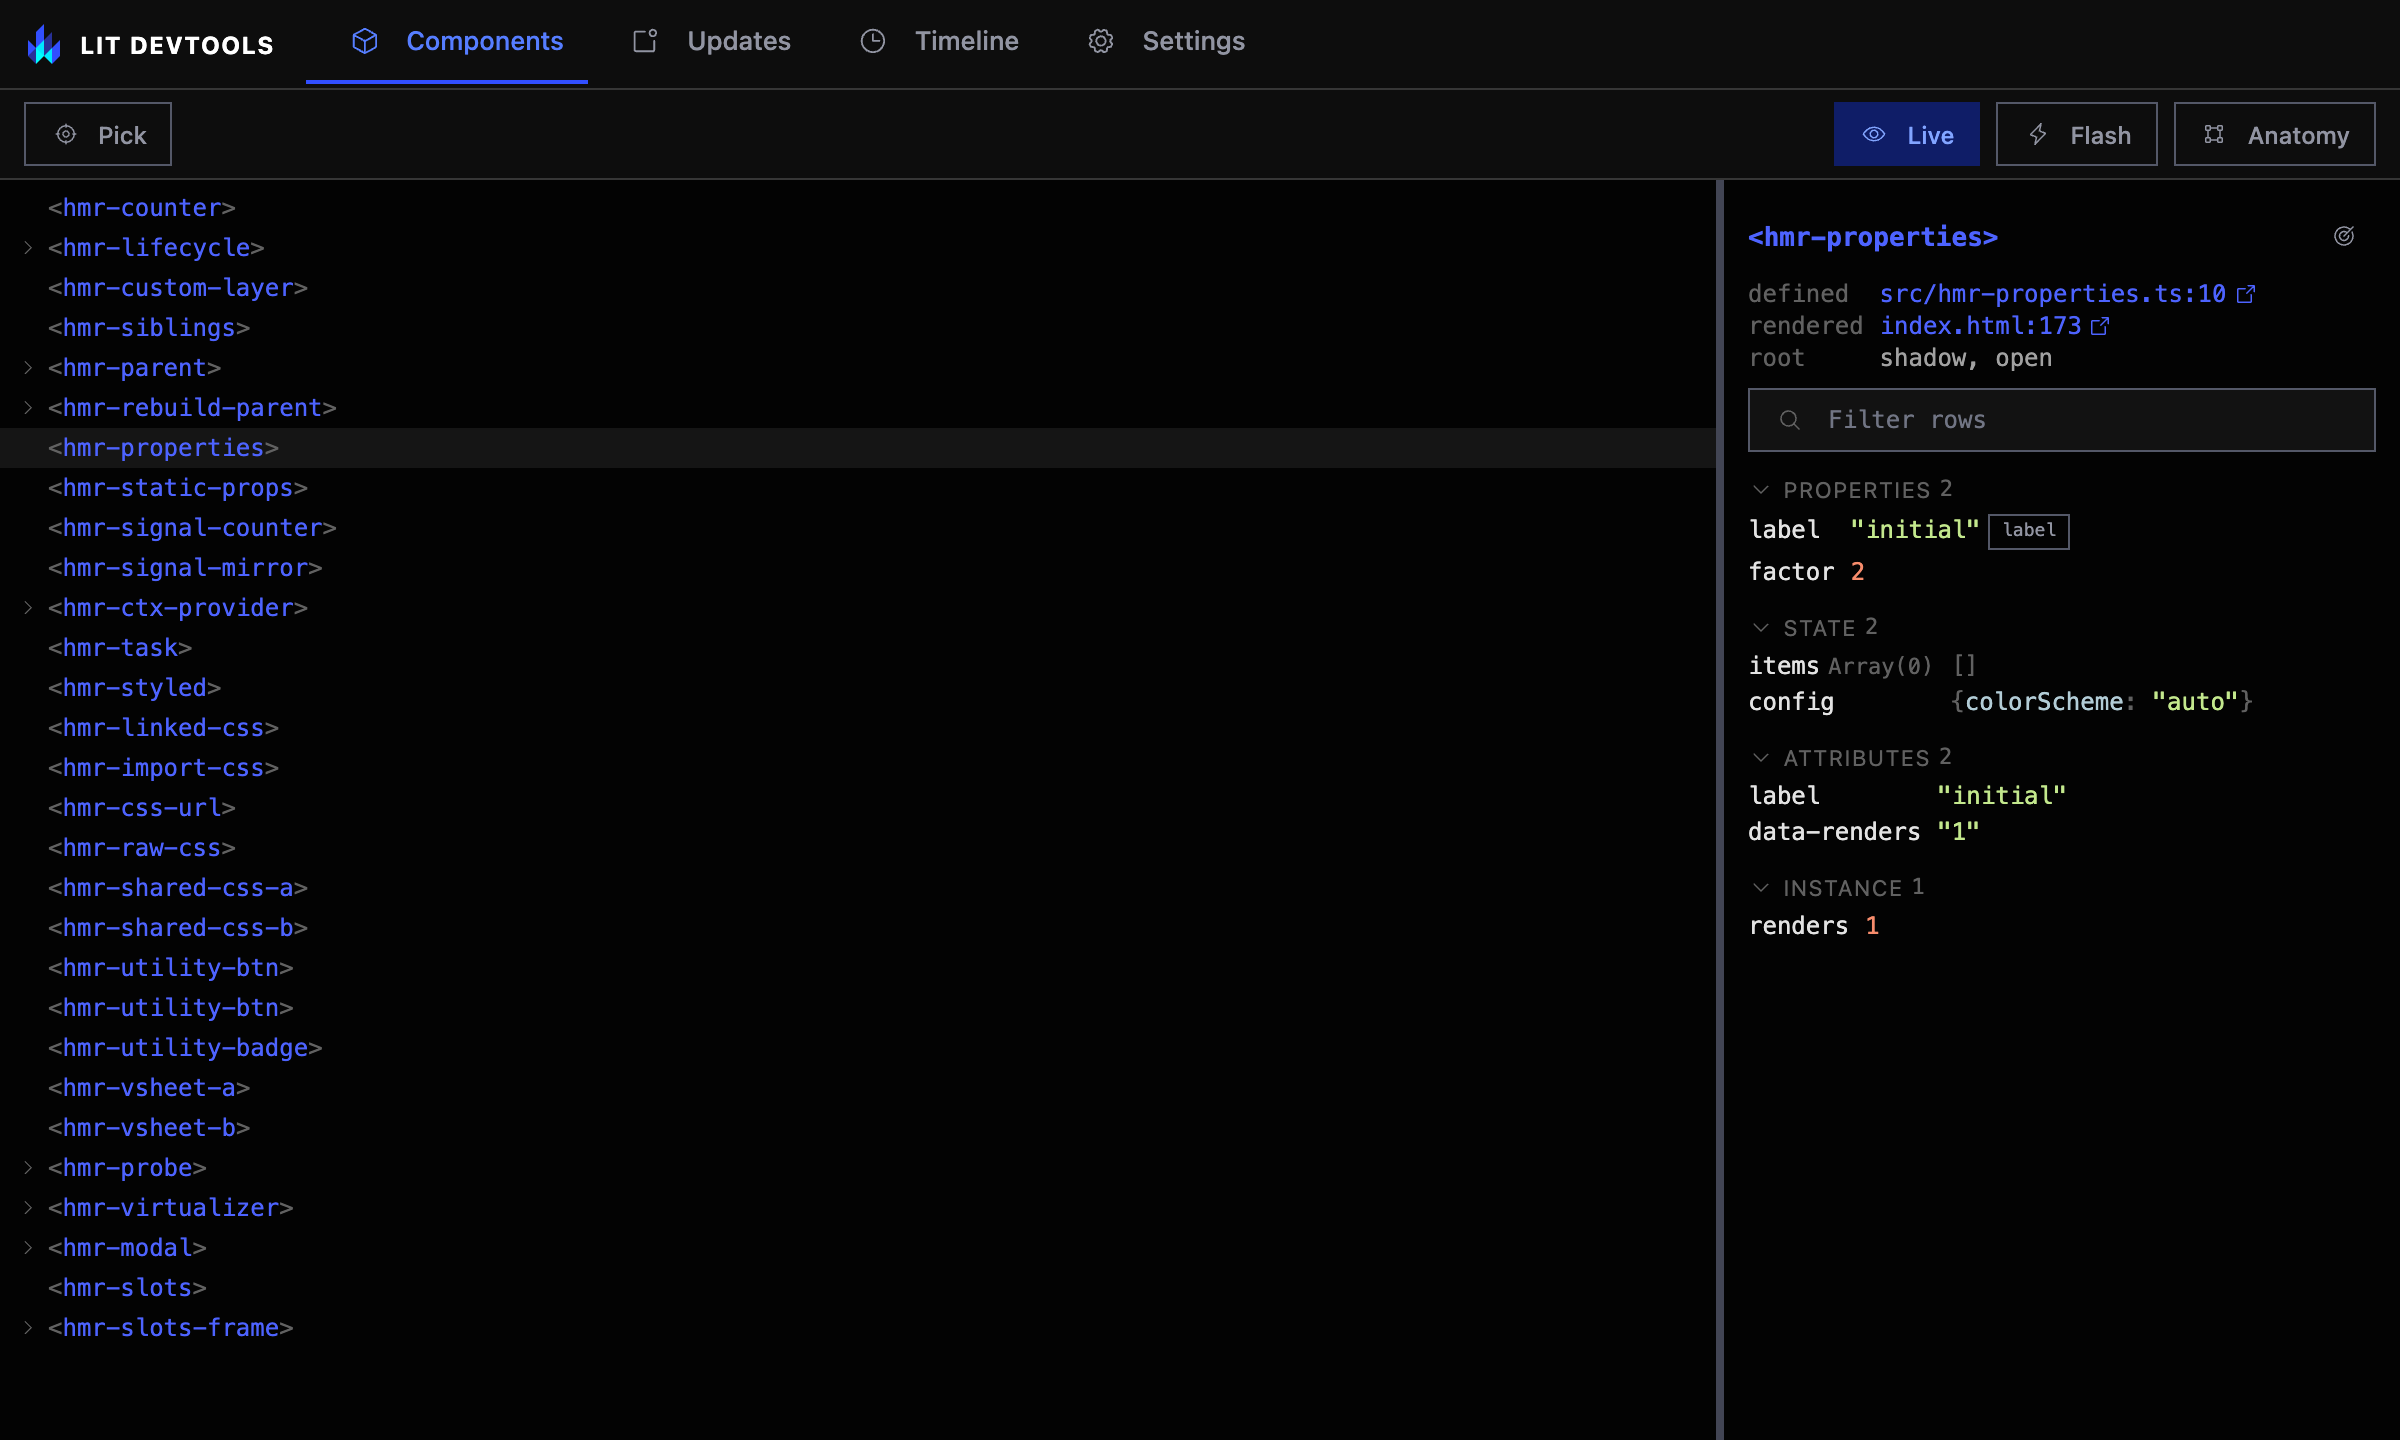
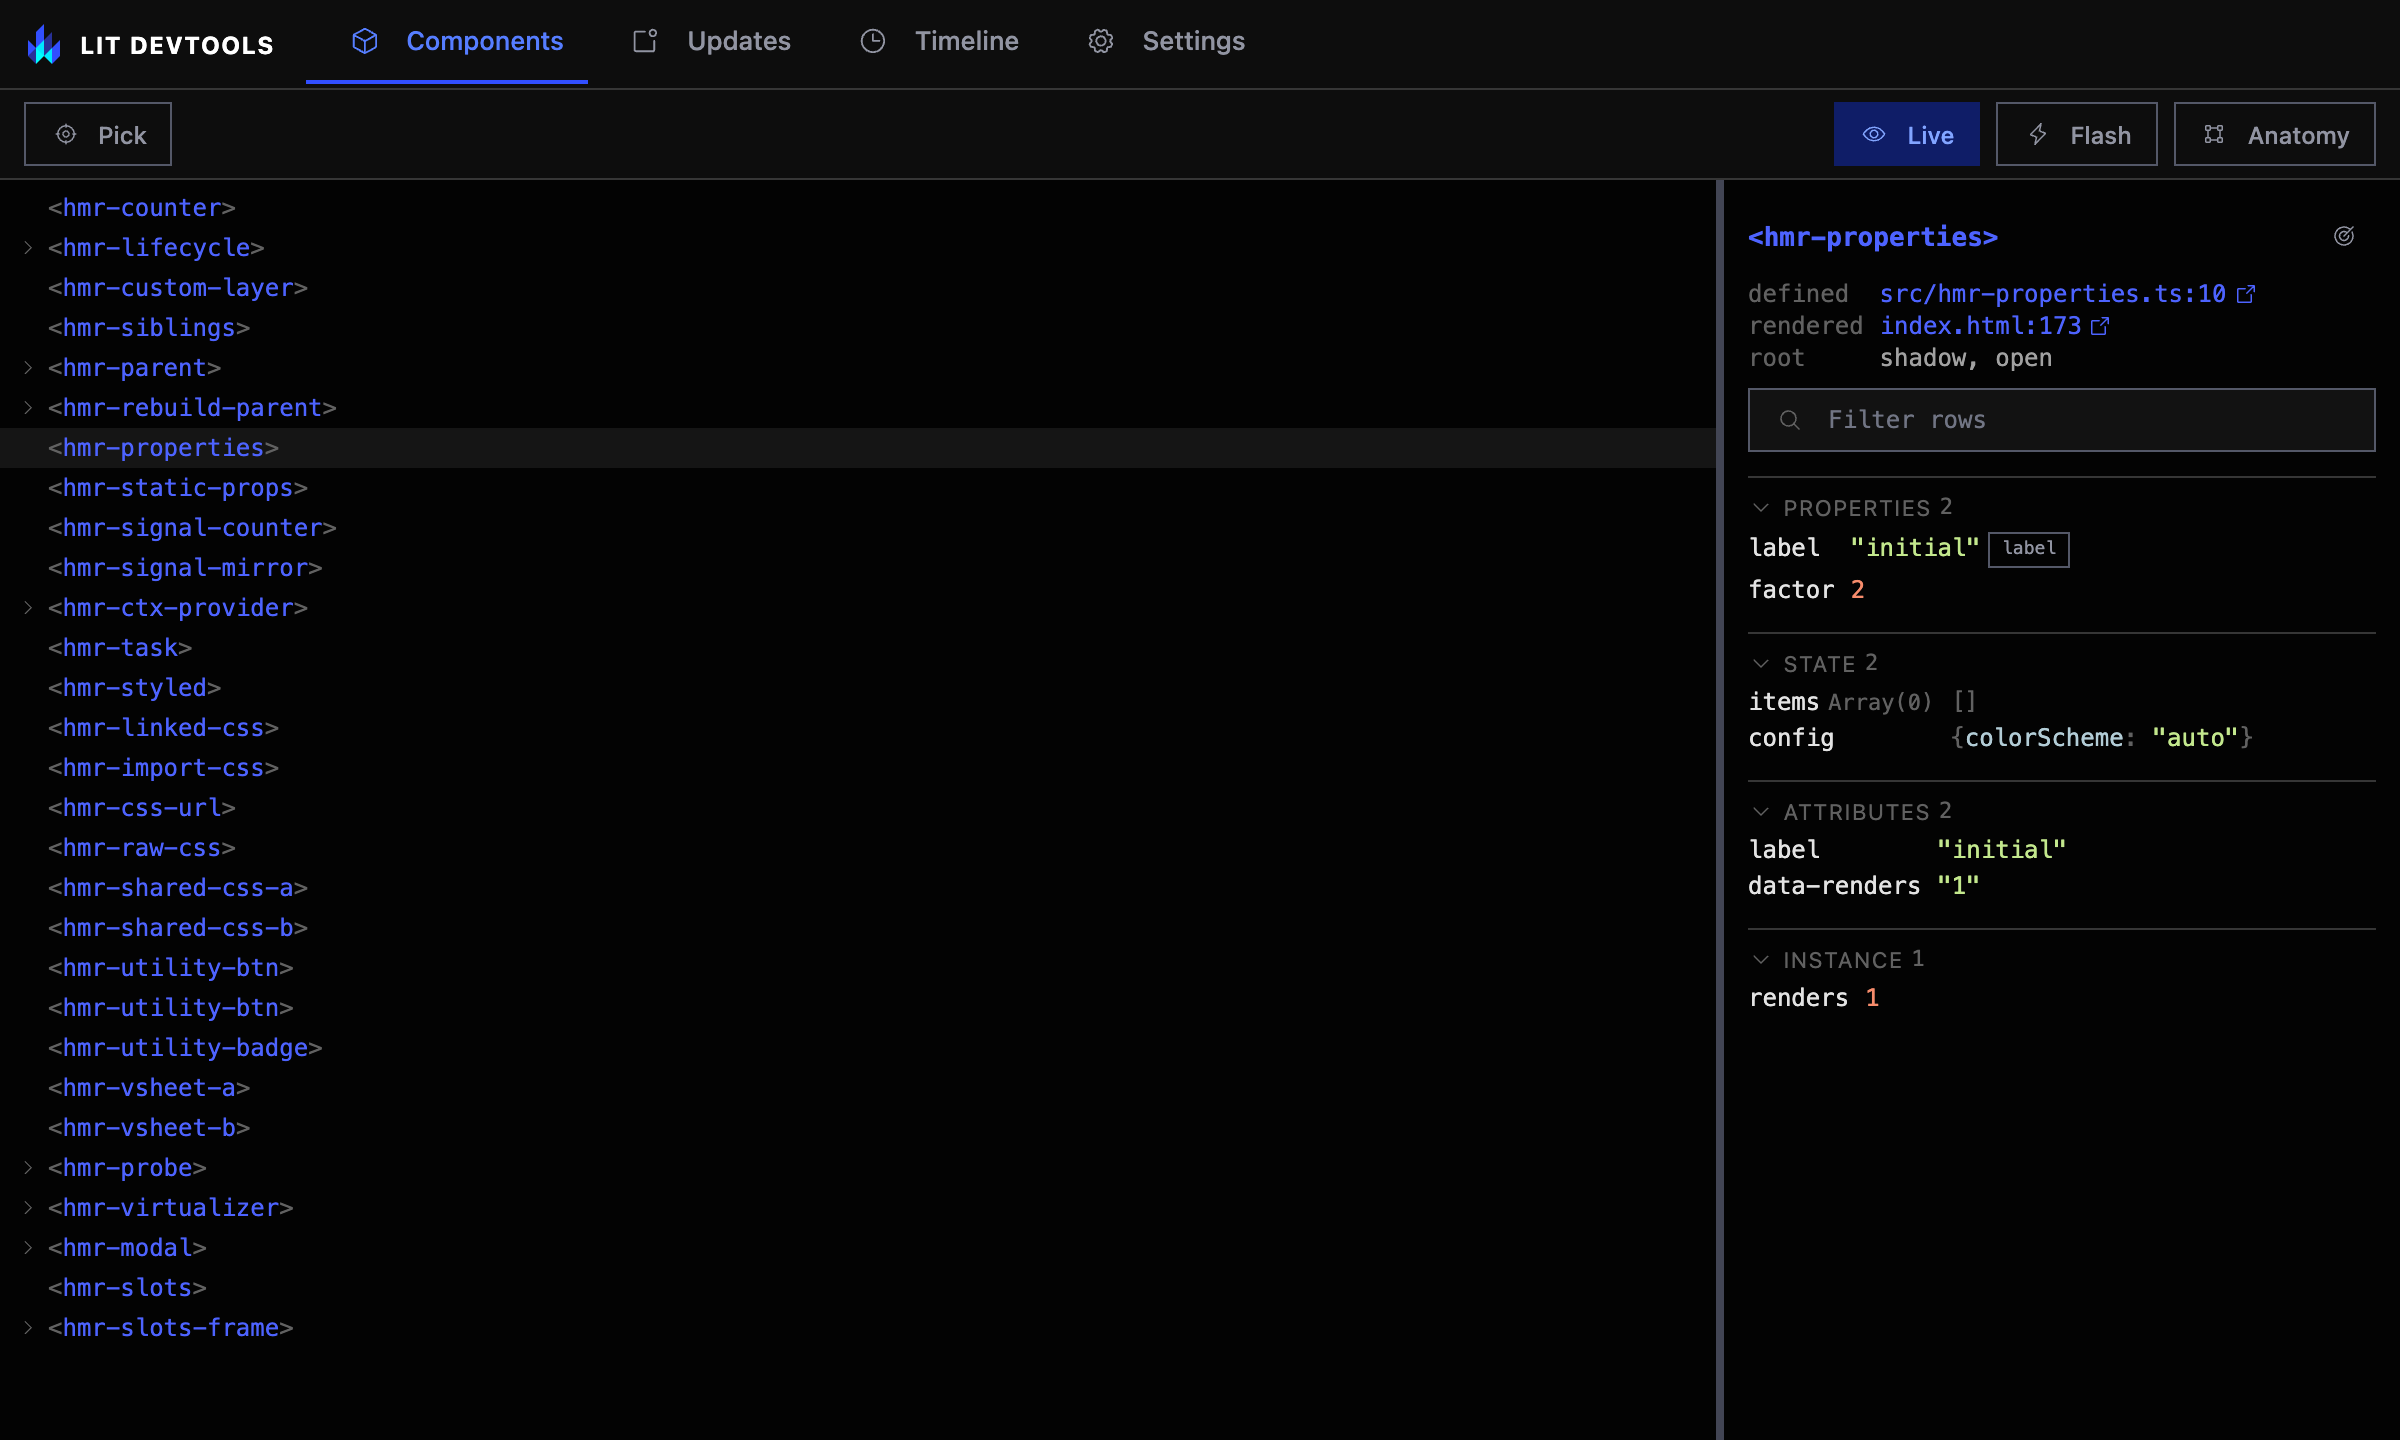
Separate details sections with a rule and more space
With only a small gap above each heading, the end of one section ran
into the start of the next, especially once values wrap across lines.
Each section now opens with a hairline rule and extra space above its
heading. The docs screenshot is retaken to match.

Changelog: Changed
  **Details sections are easier to tell apart.** A thin rule and more
  space now separate Properties, State, Attributes, Instance, Slots and
  Parts.

Changed region(s): [[0.7188, 0.3125, 0.9375, 0.7188]]

diff --git a/src/panel/components-view.ts b/src/panel/components-view.ts
@@ -337,6 +337,8 @@ export class ComponentsView extends LitElement {
       }
       .section {
         margin-top: var(--lit-devtools-space-5);
+        padding-top: var(--lit-devtools-space-4);
+        border-top: 1px solid var(--lit-devtools-border);
       }
       .section > summary {
         display: flex;
